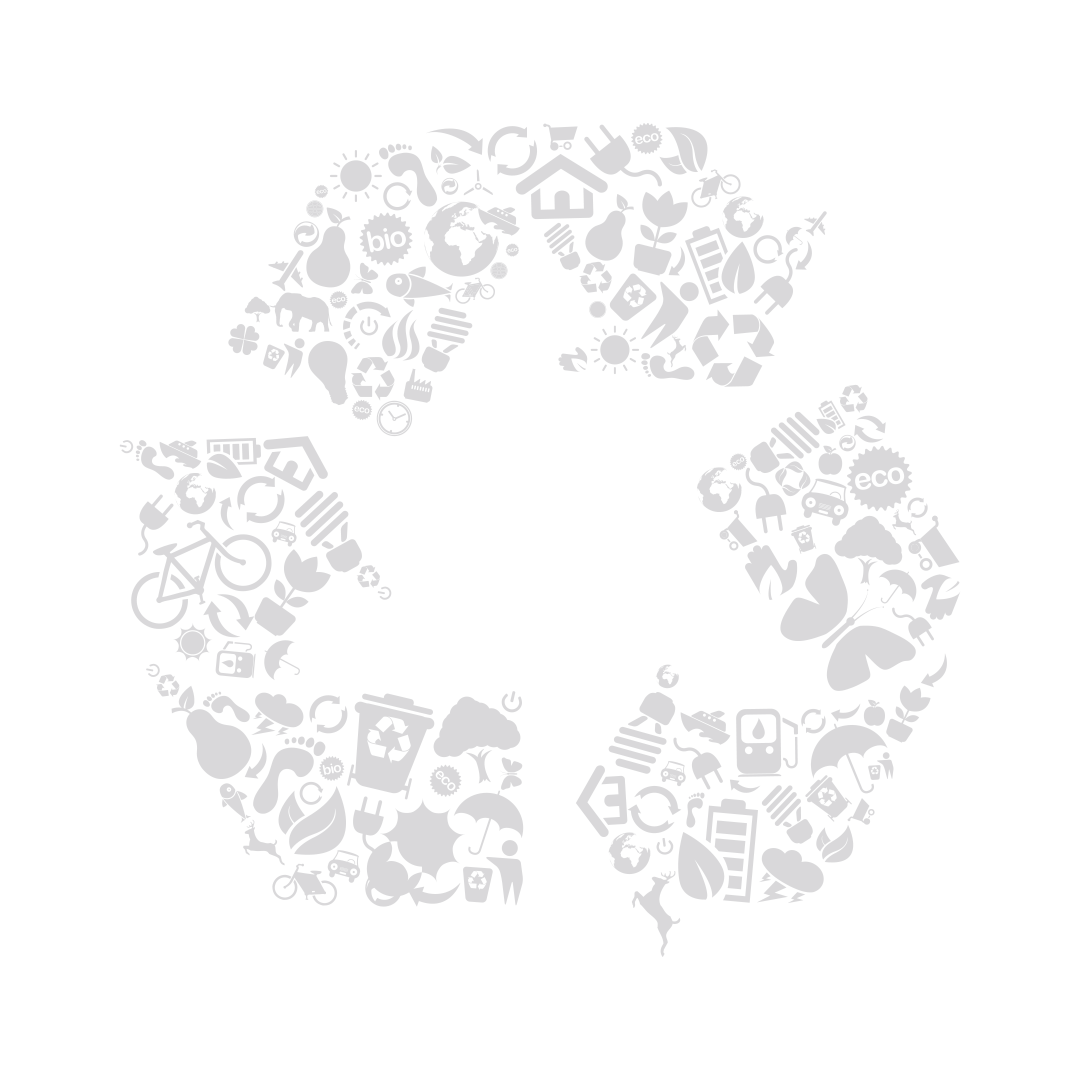
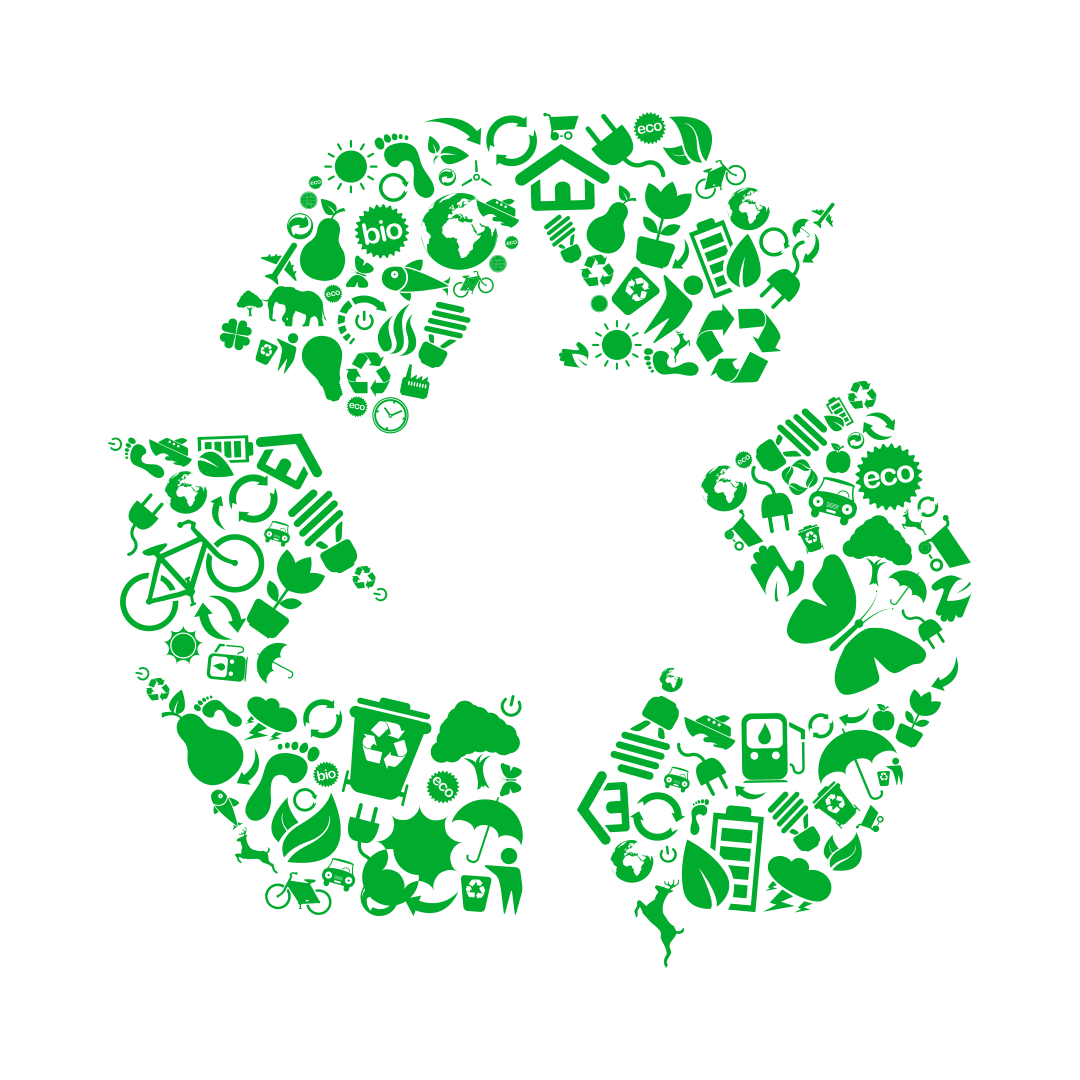
feat: padronize inputs

Changed region(s): [[0.1833, 0.0917, 0.7944, 0.3972], [0.5194, 0.3361, 0.9167, 0.8861], [0.0917, 0.3972, 0.4889, 0.8556]]

diff --git a/components/contact-form.tsx b/components/contact-form.tsx
@@ -82,6 +82,15 @@ export function ContactForm() {
     (branch) => branch.value === selectedEndereco
   );
 
+  function toTitleCase(value: string) {
+    return value
+      .toLowerCase()
+      .split(/\s+/)
+      .filter(Boolean)
+      .map((w) => w.charAt(0).toUpperCase() + w.slice(1))
+      .join(" ");
+  }
+
   const onSubmit = async (values: ContactFormValues) => {
     setFeedback({ kind: "idle", message: "" });
 
@@ -96,6 +105,8 @@ export function ContactForm() {
     }
 
     const supabase = createSupabaseBrowserClient();
+    const nome = toTitleCase(values.nome.trim());
+    const cargo = toTitleCase(values.cargo.trim());
     const ramal = values.noRamal ? "Não tenho" : values.ramal.trim();
     const emailLocal = values.email.replace(/@.*$/, "").trim();
     const email = `${emailLocal}@larplasticos.com.br`;
@@ -105,8 +116,8 @@ export function ContactForm() {
       .from("contact_submissions")
       .insert([
       {
-        nome: values.nome,
-        cargo: values.cargo,
+        nome,
+        cargo,
         ramal,
         email,
         whatsapp,
@@ -142,6 +153,8 @@ export function ContactForm() {
 
     const signaturePayload = {
       ...values,
+      nome,
+      cargo,
       email,
       whatsapp,
       ramal,
@@ -191,6 +204,10 @@ export function ContactForm() {
                       placeholder="Nome completo"
                       className="pl-10"
                       {...register("nome")}
+                      onBlur={(e) => {
+                        const v = toTitleCase((e.target as HTMLInputElement).value || "");
+                        setValue("nome", v, { shouldDirty: true, shouldTouch: true });
+                      }}
                     />
                   </FieldWithIcon>
                   {errors.nome ? (
@@ -206,6 +223,10 @@ export function ContactForm() {
                       placeholder="Ex.: Analista Comercial"
                       className="pl-10"
                       {...register("cargo")}
+                      onBlur={(e) => {
+                        const v = toTitleCase((e.target as HTMLInputElement).value || "");
+                        setValue("cargo", v, { shouldDirty: true, shouldTouch: true });
+                      }}
                     />
                   </FieldWithIcon>
                   {errors.cargo ? (
@@ -219,10 +240,10 @@ export function ContactForm() {
                     <Input
                       id="ramal"
                       placeholder="Ex.: 1234"
-                      inputMode="numeric"
-                      disabled={noRamal}
-                      className="pl-10"
-                      {...register("ramal")}
+                        inputMode="numeric"
+                        disabled={noRamal}
+                        className={"pl-10 " + (noRamal ? "opacity-50 bg-white/40 text-slate-500 cursor-not-allowed" : "")}
+                        {...register("ramal")}
                     />
                   </FieldWithIcon>
                   <label className="flex items-center gap-2 text-sm text-muted-foreground">
@@ -291,8 +312,8 @@ export function ContactForm() {
                       inputMode="tel"
                       placeholder="(11) 9 9999 9999"
                       maxLength={16}
-                      className="pl-10"
-                      disabled={noWhatsApp}
+                        className={"pl-10 " + (noWhatsApp ? "opacity-50 bg-white/40 text-slate-500 cursor-not-allowed" : "")}
+                        disabled={noWhatsApp}
                       {...register("whatsapp", {
                         onChange: (event) => {
                           const value = event.target.value;
@@ -330,7 +351,7 @@ export function ContactForm() {
                 </div>
 
                 <div className="space-y-2 sm:col-span-2">
-                  <Label htmlFor="endereco">Endereço / Filial</Label>
+                  <Label htmlFor="endereco">Endereço</Label>
                   <FieldWithIcon icon={MapPin}>
                     <Select id="endereco" className="pl-10" {...register("endereco")}>
                       {branchOptions.map((branch) => (

diff --git a/app/layout.tsx b/app/layout.tsx
@@ -18,8 +18,13 @@ const montserrat = Montserrat({
 });
 
 export const metadata: Metadata = {
-  title: "Cadastro de Contato | Lar Plásticos",
-  description: "Formulário de cadastro de contato com envio para o Supabase.",
+  title: "Gerador de Assinaturas | Lar Plásticos",
+  description: "Formulário de gerador de assinaturas de email para colaboradores da LAR Plásticos.",
+  icons: {
+    icon: [
+      { url: "/simbolo.png", sizes: "256x256", type: "image/png" },
+    ],
+  },
 };
 
 export default function RootLayout({

diff --git a/lib/contact-form.ts b/lib/contact-form.ts
@@ -3,7 +3,7 @@ import { z } from "zod";
 export const branchOptions = [
   {
     value: "rj",
-    label: "FILIAL RJ",
+    label: "RIO DE JANEIRO",
     address:
       "Estrada Beira Rio, 183 Galpão 4 D Município Duque de Caxias, Duque de Caxias - RJ, 25250-415",
   },
@@ -27,7 +27,7 @@ export const branchOptions = [
   },
   {
     value: "matriz-atibaia",
-    label: "MATRIZ ATIBAIA",
+    label: "ATIBAIA",
     address: "Rod. Dom Pedro I, km 73 - Mato Dentro, Atibaia - SP, 12954-260",
   },
 ] as const;